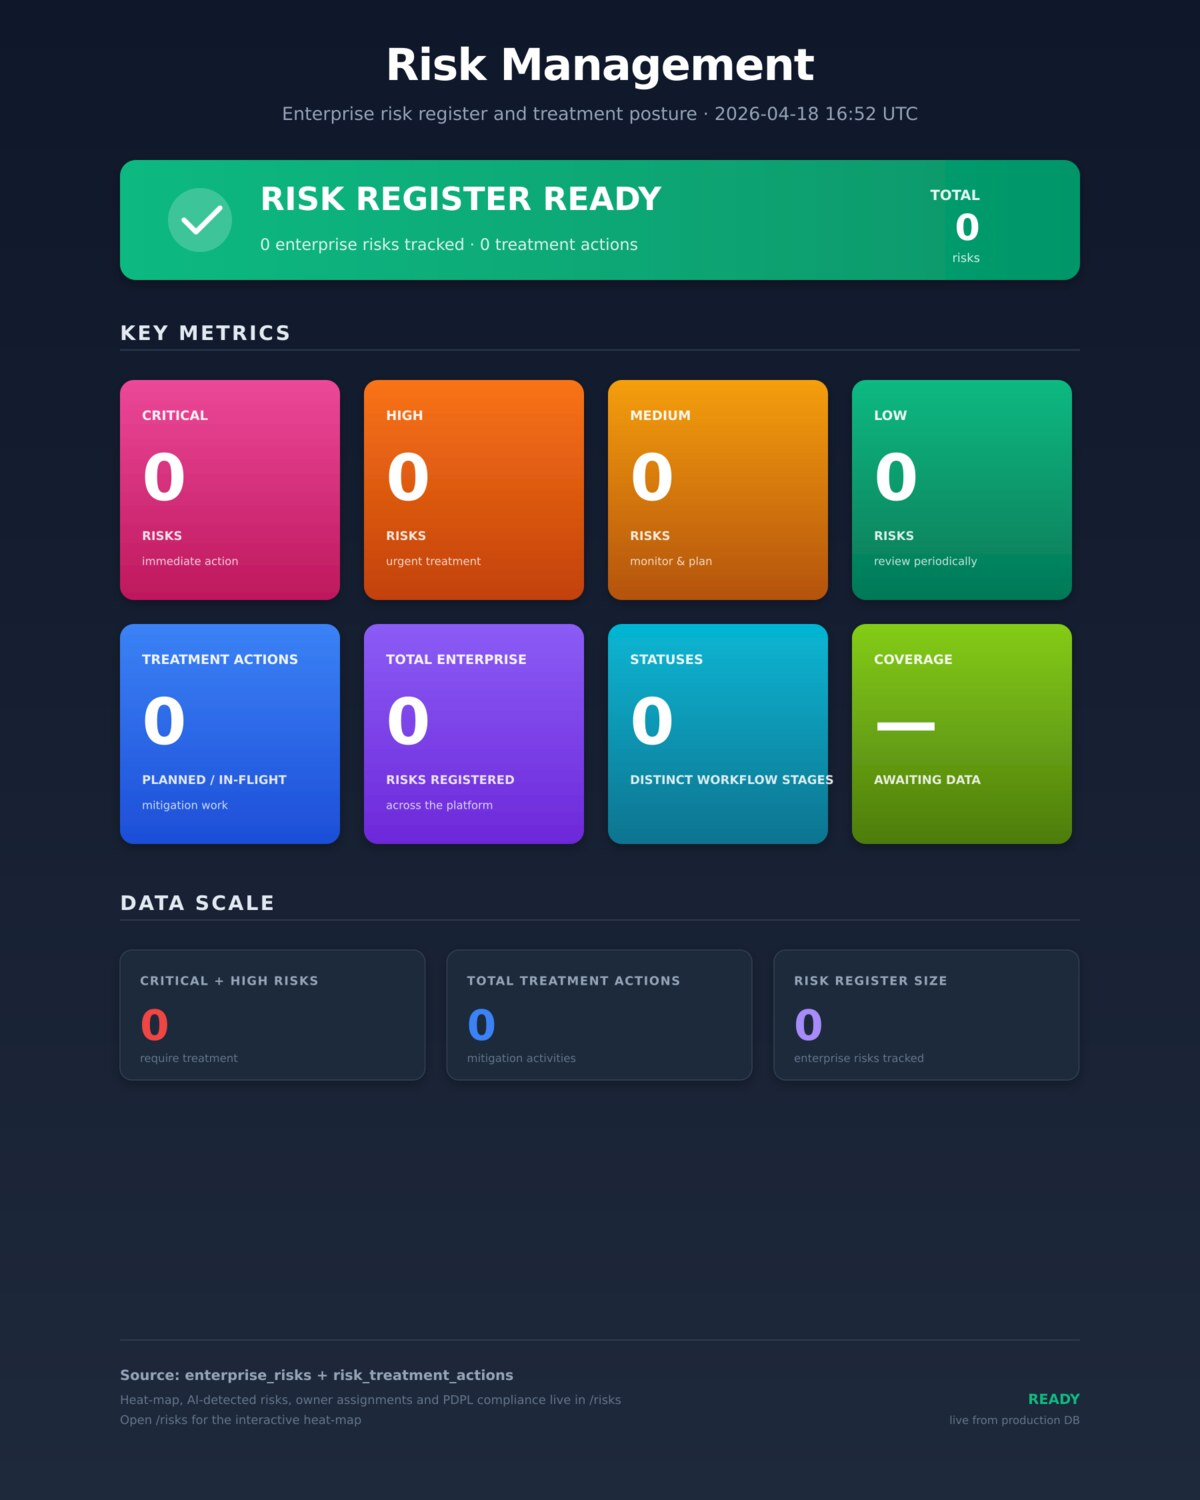
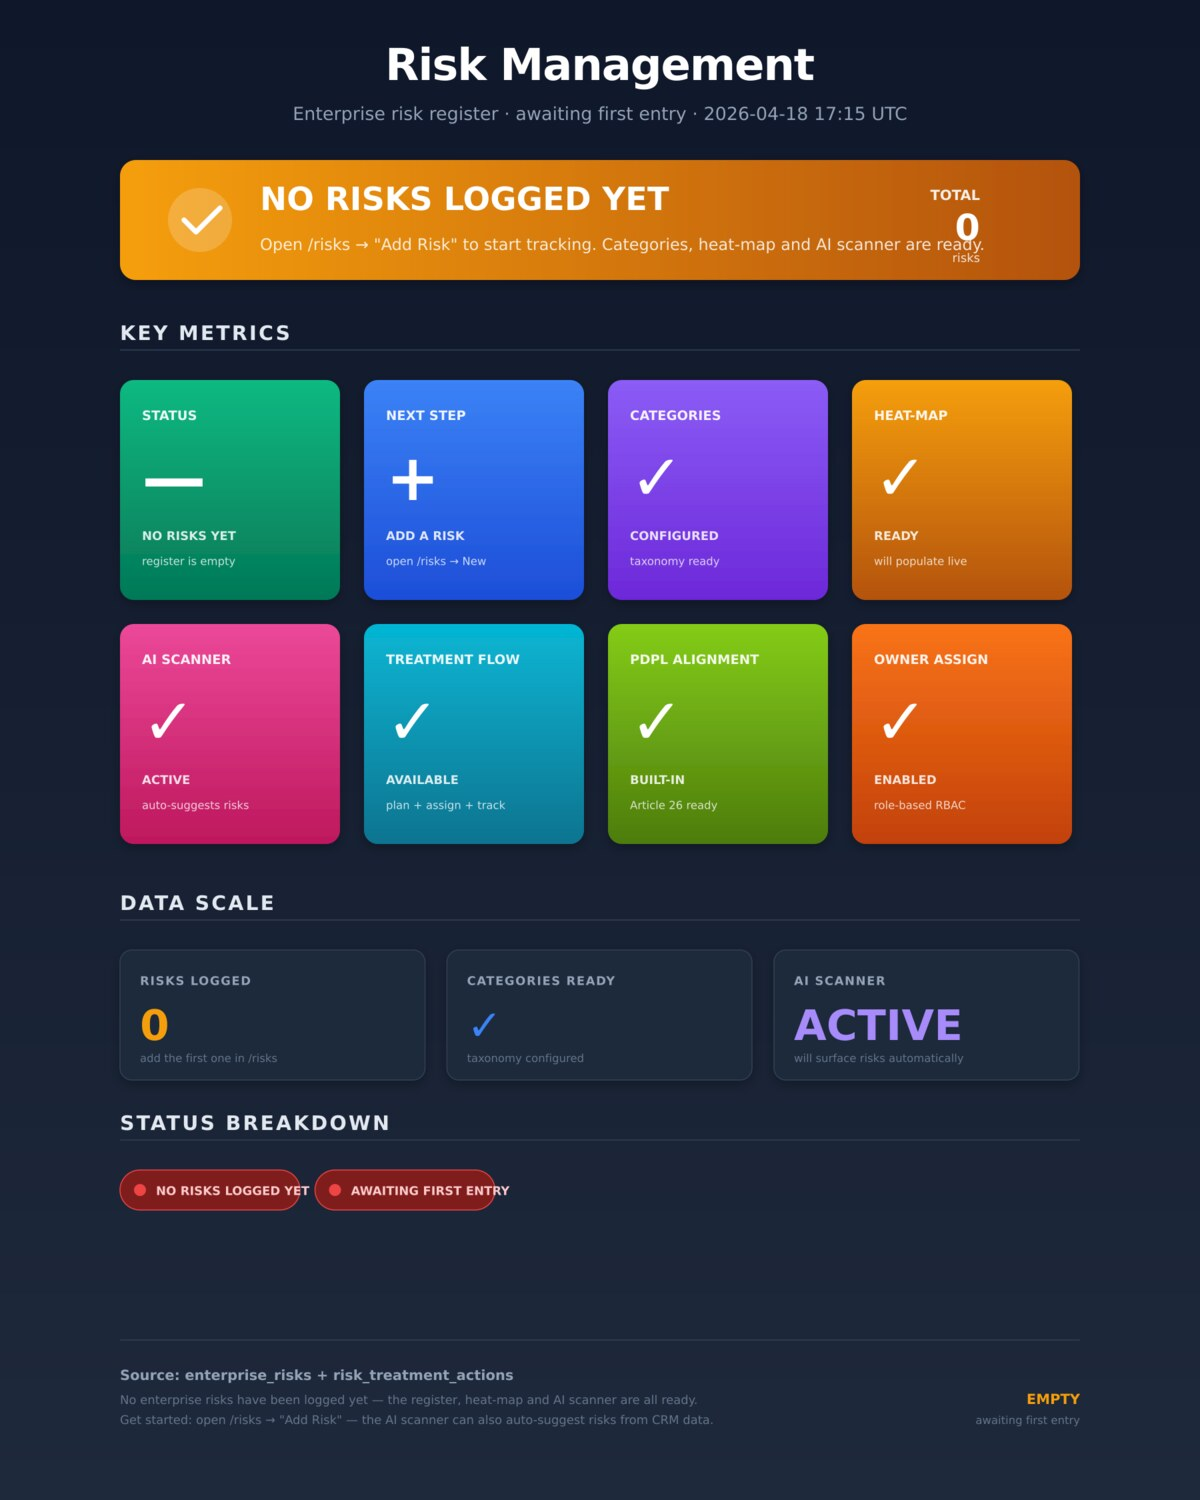
Improve risk reporting and Slack sharing functionality
Update the risk infographic to display an actionable empty state when no data exists and implement a fallback for Slack sharing to use chat messages if file uploads fail due to scope limitations.

Replit-Commit-Author: Agent
Replit-Commit-Session-Id: e44e0f80-2d17-472d-aa18-165106fa42a0
Replit-Commit-Checkpoint-Type: full_checkpoint
Replit-Commit-Event-Id: 93f67baa-4a02-4f1b-9b50-b06212e8c22b
Replit-Commit-Screenshot-Url: https://storage.googleapis.com/screenshot-production-us-central1/59ccf546-2e0b-4c99-b695-565efaae72a7/e44e0f80-2d17-472d-aa18-165106fa42a0/aFXhFjl
Replit-Helium-Checkpoint-Created: true

diff --git a/src/utils/infographicBuilder.ts b/src/utils/infographicBuilder.ts
@@ -434,16 +434,31 @@ async function buildRisks(): Promise<InfographicData> {
 
   const lvl = (k: string) => byLevel.find((r: any) => String(r.level).toLowerCase() === k)?.n || 0;
 
+  const empty = total === 0;
+
   return {
     title: 'Risk Management',
-    subtitle: `Enterprise risk register and treatment posture · ${TS()}`,
+    subtitle: empty
+      ? `Enterprise risk register · awaiting first entry · ${TS()}`
+      : `Enterprise risk register and treatment posture · ${TS()}`,
     hero: {
-      status: total === 0 ? 'RISK REGISTER READY' : 'RISK REGISTER LIVE',
-      detail: `${nf(total)} enterprise risks tracked · ${nf(treatments)} treatment actions`,
+      status: empty ? 'NO RISKS LOGGED YET' : 'RISK REGISTER LIVE',
+      detail: empty
+        ? 'Open /risks → "Add Risk" to start tracking. Categories, heat-map and AI scanner are ready.'
+        : `${nf(total)} enterprise risks tracked · ${nf(treatments)} treatment actions`,
       sideLabel: 'TOTAL', sideValue: nf(total), sideHint: 'risks',
-      color: lvl('critical') > 0 ? 'red' : lvl('high') > 0 ? 'amber' : 'green',
+      color: empty ? 'amber' : (lvl('critical') > 0 ? 'red' : lvl('high') > 0 ? 'amber' : 'green'),
     },
-    cards: [
+    cards: empty ? [
+      { label: 'STATUS', big: '—', sub: 'NO RISKS YET', line1: 'register is empty', color: 'c1' },
+      { label: 'NEXT STEP', big: '+', sub: 'ADD A RISK', line1: 'open /risks → New', color: 'c2' },
+      { label: 'CATEGORIES', big: '✓', sub: 'CONFIGURED', line1: 'taxonomy ready', color: 'c3' },
+      { label: 'HEAT-MAP', big: '✓', sub: 'READY', line1: 'will populate live', color: 'c4' },
+      { label: 'AI SCANNER', big: '✓', sub: 'ACTIVE', line1: 'auto-suggests risks', color: 'c5' },
+      { label: 'TREATMENT FLOW', big: '✓', sub: 'AVAILABLE', line1: 'plan + assign + track', color: 'c6' },
+      { label: 'PDPL ALIGNMENT', big: '✓', sub: 'BUILT-IN', line1: 'Article 26 ready', color: 'c7' },
+      { label: 'OWNER ASSIGN', big: '✓', sub: 'ENABLED', line1: 'role-based RBAC', color: 'c8' },
+    ] : [
       { label: 'CRITICAL', big: String(lvl('critical')), sub: 'RISKS', line1: 'immediate action', color: 'c5' },
       { label: 'HIGH', big: String(lvl('high')), sub: 'RISKS', line1: 'urgent treatment', color: 'c8' },
       { label: 'MEDIUM', big: String(lvl('medium')), sub: 'RISKS', line1: 'monitor & plan', color: 'c4' },
@@ -451,23 +466,33 @@ async function buildRisks(): Promise<InfographicData> {
       { label: 'TREATMENT ACTIONS', big: nf(treatments), sub: 'PLANNED / IN-FLIGHT', line1: 'mitigation work', color: 'c2' },
       { label: 'TOTAL ENTERPRISE', big: nf(total), sub: 'RISKS REGISTERED', line1: 'across the platform', color: 'c3' },
       { label: 'STATUSES', big: String(byStatus.length), sub: 'DISTINCT WORKFLOW STAGES', line1: '', color: 'c6' },
-      { label: 'COVERAGE', big: total > 0 ? '✓' : '—', sub: total > 0 ? 'ACTIVE TRACKING' : 'AWAITING DATA', line1: '', color: 'c7' },
+      { label: 'COVERAGE', big: '✓', sub: 'ACTIVE TRACKING', line1: '', color: 'c7' },
     ],
-    strip: [
+    strip: empty ? [
+      { label: 'RISKS LOGGED', value: '0', hint: 'add the first one in /risks', color: '#f59e0b' },
+      { label: 'CATEGORIES READY', value: '✓', hint: 'taxonomy configured', color: '#3b82f6' },
+      { label: 'AI SCANNER', value: 'ACTIVE', hint: 'will surface risks automatically', color: '#a78bfa' },
+    ] : [
       { label: 'CRITICAL + HIGH RISKS', value: nf(lvl('critical') + lvl('high')), hint: 'require treatment', color: '#ef4444' },
       { label: 'TOTAL TREATMENT ACTIONS', value: nf(treatments), hint: 'mitigation activities', color: '#3b82f6' },
       { label: 'RISK REGISTER SIZE', value: nf(total), hint: 'enterprise risks tracked', color: '#a78bfa' },
     ],
-    pills: byStatus.slice(0, 10).map(s => ({
-      label: `${s.status} (${s.n})`.slice(0, 22),
-      ok: !['overdue', 'breach', 'critical'].includes(String(s.status).toLowerCase()),
-    })),
+    pills: empty
+      ? [{ label: 'NO RISKS LOGGED YET', ok: false }, { label: 'AWAITING FIRST ENTRY', ok: false }]
+      : byStatus.slice(0, 10).map(s => ({
+          label: `${s.status} (${s.n})`.slice(0, 22),
+          ok: !['overdue', 'breach', 'critical'].includes(String(s.status).toLowerCase()),
+        })),
     footer: {
       source: 'Source: enterprise_risks + risk_treatment_actions',
-      line1: 'Heat-map, AI-detected risks, owner assignments and PDPL compliance live in /risks',
-      line2: 'Open /risks for the interactive heat-map',
-      rightLabel: total === 0 ? 'READY' : 'TRACKED',
-      rightHint: 'live from production DB',
+      line1: empty
+        ? 'No enterprise risks have been logged yet — the register, heat-map and AI scanner are all ready.'
+        : 'Heat-map, AI-detected risks, owner assignments and PDPL compliance live in /risks',
+      line2: empty
+        ? 'Get started: open /risks → "Add Risk" — the AI scanner can also auto-suggest risks from CRM data.'
+        : 'Open /risks for the interactive heat-map',
+      rightLabel: empty ? 'EMPTY' : 'TRACKED',
+      rightHint: empty ? 'awaiting first entry' : 'live from production DB',
     },
   };
 }

diff --git a/src/mastra/routes/infographicRoutes.ts b/src/mastra/routes/infographicRoutes.ts
@@ -104,20 +104,56 @@ export const infographicRoutes = [
 
           const { WebClient } = await import('@slack/web-api');
           const client = new WebClient(token);
-          const result: any = await client.files.uploadV2({
-            channel_id: channel,
-            file: png,
-            filename,
-            title: `${meta.title} — WalaPlus`,
-            initial_comment: comment || `📊 *${meta.title}* — ${meta.subtitle}\nGenerated from live WalaPlus data.`,
-          });
+          const headerText = `📊 *${meta.title}* — ${meta.subtitle}`;
+          const userComment = comment || 'Generated from live WalaPlus data.';
 
-          return c.json({
-            success: true,
-            channel,
-            filename,
-            file_id: result?.files?.[0]?.id || result?.file?.id || null,
-          });
+          try {
+            const result: any = await client.files.uploadV2({
+              channel_id: channel,
+              file: png,
+              filename,
+              title: `${meta.title} — WalaPlus`,
+              initial_comment: `${headerText}\n${userComment}`,
+            });
+            return c.json({
+              success: true,
+              mode: 'file',
+              channel,
+              filename,
+              file_id: result?.files?.[0]?.id || result?.file?.id || null,
+            });
+          } catch (uploadErr: any) {
+            const slackError = uploadErr?.data?.error || uploadErr?.message || '';
+            // Graceful fallback: if the bot lacks files:write, post a rich text
+            // message instead so the channel is still notified.
+            if (slackError === 'missing_scope' || slackError === 'not_allowed_token_type') {
+              console.warn(`[Infographic] files.uploadV2 lacks scope (${slackError}); falling back to chat.postMessage`);
+              const blocks = [
+                { type: 'header', text: { type: 'plain_text', text: meta.title } },
+                { type: 'section', text: { type: 'mrkdwn', text: `*${meta.subtitle}*\n${userComment}` } },
+                {
+                  type: 'context',
+                  elements: [
+                    { type: 'mrkdwn', text: `📎 _A PNG attachment couldn't be uploaded — Slack bot is missing the *files:write* scope. Open the WalaPlus dashboard to view or download._` },
+                  ],
+                },
+                { type: 'divider' },
+                { type: 'context', elements: [{ type: 'mrkdwn', text: `🕒 Generated ${new Date().toISOString().slice(0, 16).replace('T', ' ')} UTC · WalaPlus QMS` }] },
+              ];
+              await client.chat.postMessage({
+                channel,
+                text: `${meta.title} — ${meta.subtitle}`,
+                blocks,
+              });
+              return c.json({
+                success: true,
+                mode: 'message',
+                channel,
+                note: 'Posted as a chat message because the Slack bot lacks files:write scope. Add files:write in OAuth & Permissions and reinstall the app to enable PNG attachments.',
+              });
+            }
+            throw uploadErr;
+          }
         } catch (error: any) {
           console.error('[Infographic] Slack share failed:', error?.data || error);
           return c.json({
